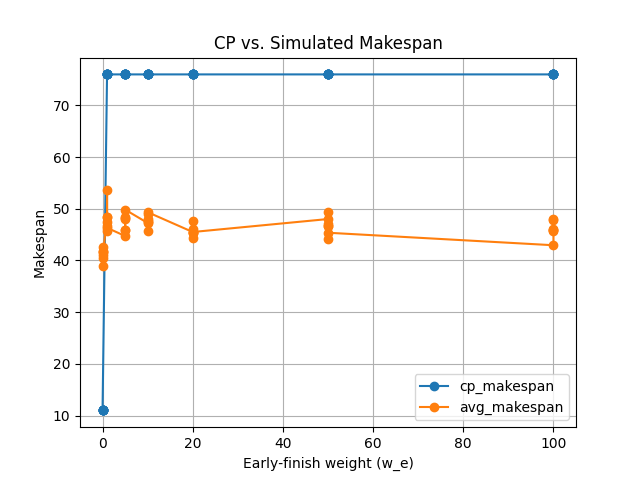
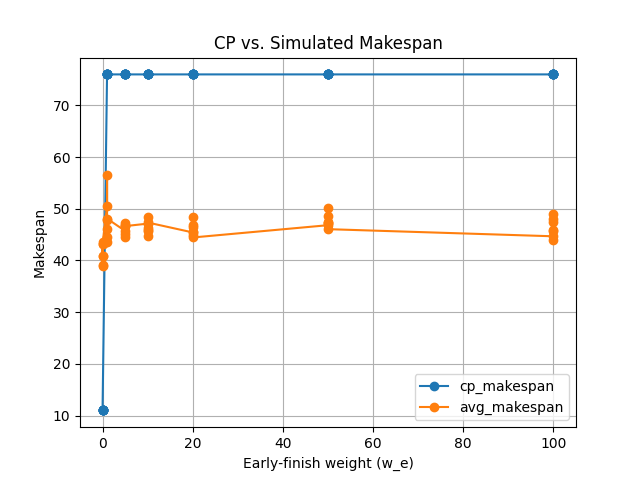
more adjustemtns to the experiment fine tuning parameters

Changed region(s): [[0.1562, 0.3438, 0.875, 0.5312]]

diff --git a/PyJobShopIntegration/fjsp_deadline_copy.py b/PyJobShopIntegration/fjsp_deadline_copy.py
@@ -46,8 +46,8 @@ if infeasible_jobs:
     print("[WARNING] Infeasible jobs found:")
     for job_idx, needed, deadline in infeasible_jobs:
         print(f" - Job {job_idx}: needs ≥ {needed}, deadline = {deadline}")
-w_e = 20
-w_t = 100
+w_e = 3
+w_t = 0
 is_soft_deadline = False
 model = Model()
 model.set_objective(
@@ -56,8 +56,6 @@ model.set_objective(
     weight_total_tardiness=w_t,
     weight_max_lateness=1,
 )
-weights = compute_slack_weights(data, job_deadlines)
-
 machines = [model.add_machine(name=f"Machine {idx}") for idx in range(NUM_MACHINES)]
 tasks = {}
 deadline_resource = model.add_renewable(capacity=999, name="DeadlineResource")
@@ -103,12 +101,6 @@ for idx, task in enumerate(solution.tasks):
 # -------------------------
 # gather global min/max per real task
 duration_distributions = get_distribution_bounds(model, data)
-assert len(duration_distributions.lower_bounds) == len(model.tasks)
-assert len(duration_distributions.upper_bounds) == len(model.tasks)
-for t, lb, ub in zip(model.tasks,
-                     duration_distributions.lower_bounds,
-                     duration_distributions.upper_bounds):
-    print(f"{t.name:<15}  →   [{lb:2d}, {ub:2d}]")
 
 # PHASE 3. Build the STNU
 stnu = PyJobShopSTNU.from_concrete_model(model, duration_distributions)
